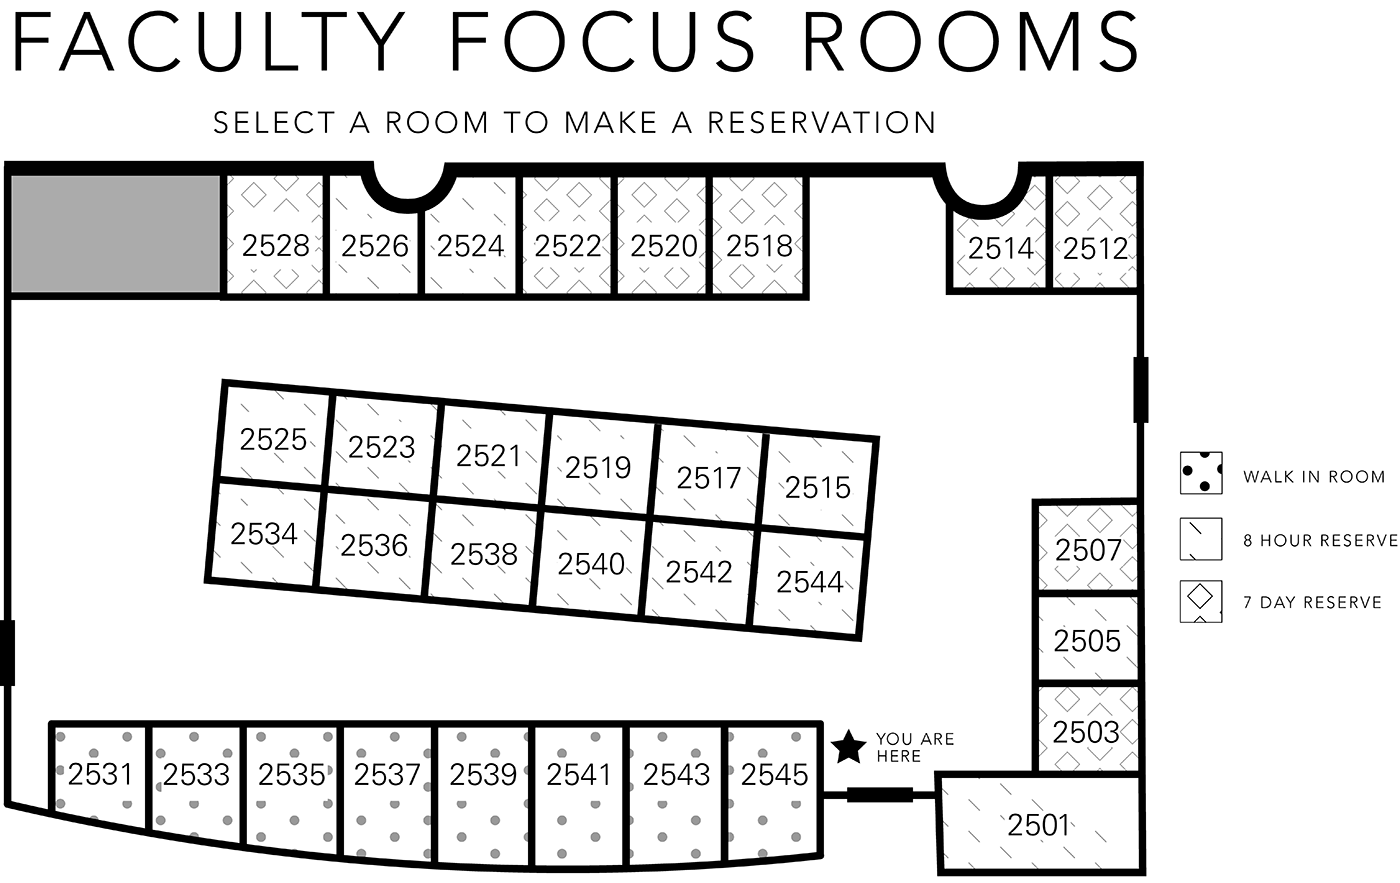
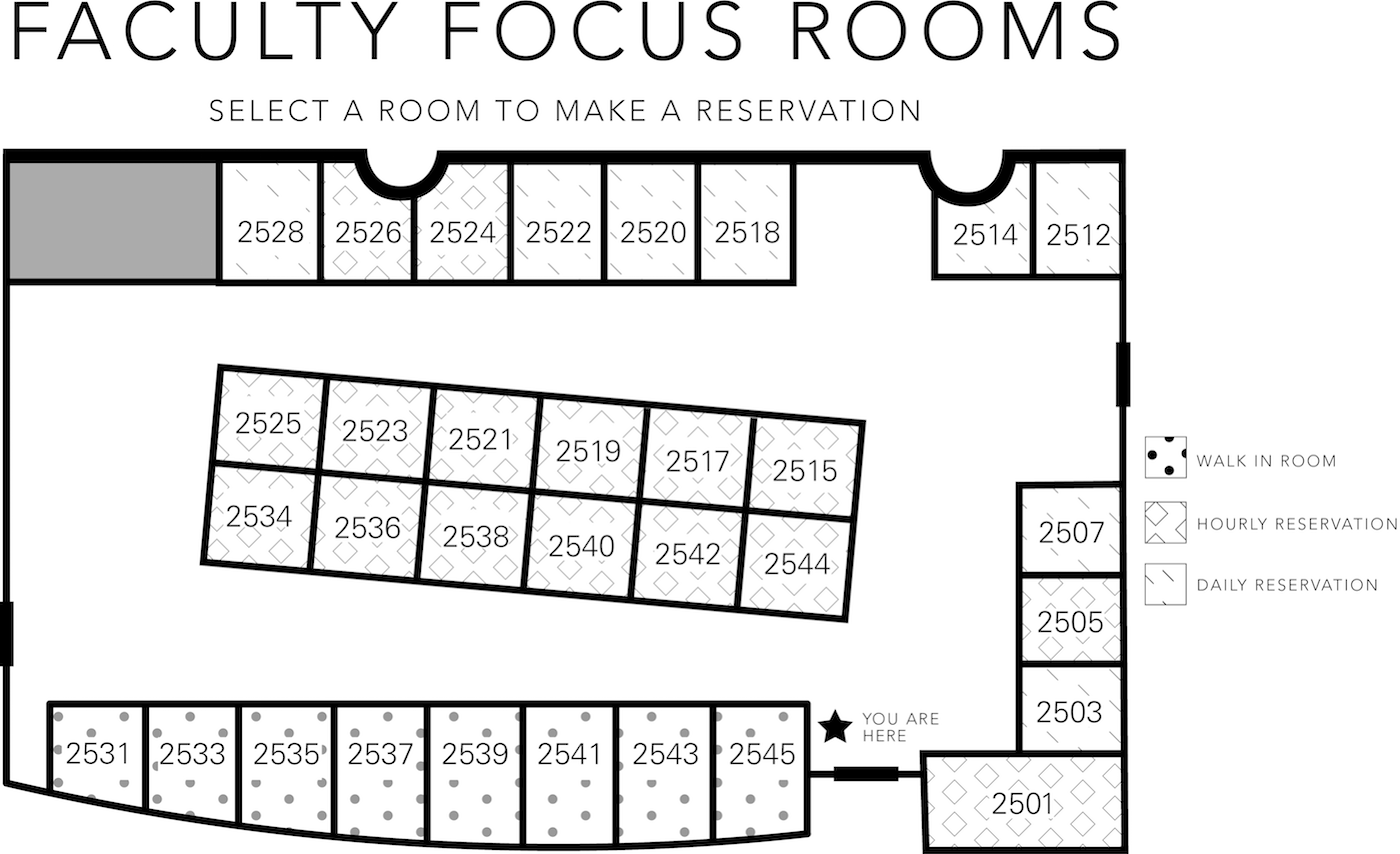
image changes

Changed region(s): [[0.0, 0.1218, 1.0, 1.0], [0.1229, 0.4262, 0.645, 0.7307], [0.0, 0.0, 0.8293, 0.0913]]

diff --git a/modules/studyroom_availability/theme/studyroom-availability-airport.tpl.php b/modules/studyroom_availability/theme/studyroom-availability-airport.tpl.php
@@ -20,10 +20,8 @@ $args = explode('/', drupal_get_path_alias());
     <?php
     if (in_array('facultyimagemap', $args)){ ?>
       <div class="just-the-maps">
-<!--      <div class="select-room-instruction">-->
-<!--          Select a room to make a reservation.-->
-<!--      </div>-->
-          <img src="/sites/all/modules/studyroom/modules/studyroom_availability/theme/img/facultyimagemap.png" alt="" width="1400" height="883" usemap="#Map"/>
+          <!-- Image -->
+          <img src="/sites/all/modules/studyroom/modules/studyroom_availability/theme/img/facultyimagemap.png" alt="" width="1400" height="883" usemap="#facultyimagemap"/>
           <!-- Modal -->
           <div class="modal fade" id="myModal" role="dialog">
               <div class="modal-dialog">
@@ -33,55 +31,98 @@ $args = explode('/', drupal_get_path_alias());
                           <h4 class="modal-title">Walk In Rooms</h4>
                       </div>
                       <div class="modal-body">
-                          <p>Walk In Rooms are first come, first serve. No reservations are needed.</p>
+                          <p>Does not require a reservation. Availability is based on first come, first served.</p>
                       </div>
                       <div class="modal-footer"><button class="btn btn-default" data-dismiss="modal" type="button">Close</button></div>
                   </div>
               </div>
           </div>
-          <map name="Map">
+          <!-- Image Map -->
+          <map name="facultyimagemap">
               <area shape="rect" coords="225,175,324,293" href="/space/44/day/facultyimagemap">
-              <area shape="poly" coords="330,177,359,177,365,187,373,201,386,211,402,213,418,211,418,293,329,295" href="space/43/day/facultyimagemap">
-              <area shape="poly" coords="516,177,517,294,425,296,424,210,435,203,445,197,452,186,455,177" href="space/42/day/facultyimagemap">
-              <area shape="rect" coords="523,177,613,294" href="space/41/day/facultyimagemap">
-              <area shape="rect" coords="618,178,706,295" href="space/40/day/facultyimagemap">
-              <area shape="rect" coords="714,177,804,294" href="space/39/day/facultyimagemap">
-              <area shape="poly" coords="1048,288,953,288,952,210,957,212,968,219,980,221,992,219,1011,213,1020,202,1026,193,1032,177,1045,176" href="space/38/day/facultyimagemap">
+              <area shape="poly" coords="330,177,359,177,365,187,373,201,386,211,402,213,418,211,418,293,329,295" href="/space/43/day/facultyimagemap">
+              <area shape="poly" coords="516,177,517,294,425,296,424,210,435,203,445,197,452,186,455,177" href="/space/42/day/facultyimagemap">
+              <area shape="rect" coords="523,177,613,294" href="/space/41/day/facultyimagemap">
+              <area shape="rect" coords="618,178,706,295" href="/space/40/day/facultyimagemap">
+              <area shape="rect" coords="714,177,804,294" href="/space/39/day/facultyimagemap">
+              <area shape="poly" coords="1048,288,953,288,952,210,957,212,968,219,980,221,992,219,1011,213,1020,202,1026,193,1032,177,1045,176" href="/space/38/day/facultyimagemap">
               <area shape="rect" coords="1051,176,1138,288" href="space/37/day/facultyimagemap">
-              <area shape="poly" coords="768,432,875,442,867,537,760,527" href="space/25/day/facultyimagemap">
-              <area shape="poly" coords="660,424,766,432,757,529,651,518" href="space/26/day/facultyimagemap">
-              <area shape="poly" coords="549,413,657,421,649,519,539,510" href="space/27/day/facultyimagemap">
-              <area shape="poly" coords="443,402,548,412,538,510,434,497" href="space/28/day/facultyimagemap">
-              <area shape="poly" coords="333,394,442,403,434,500,325,486" href="space/29/day/facultyimagemap">
-              <area shape="poly" coords="226,385,332,395,323,489,217,478" href="space/30/day/facultyimagemap">
-              <area shape="poly" coords="217,480,325,490,316,590,206,580" href="space/31/day/facultyimagemap">
-              <area shape="poly" coords="324,490,434,501,424,601,317,592" href="space/32/day/facultyimagemap">
-              <area shape="poly" coords="433,500,541,510,533,613,423,599" href="space/33/day/facultyimagemap">
-              <area shape="poly" coords="540,509,652,520,642,618,535,613" href="space/34/day/facultyimagemap">
-              <area shape="poly" coords="652,522,757,529,750,627,646,620" href="space/35/day/facultyimagemap">
-              <area shape="poly" coords="758,532,870,539,861,638,751,628" href="space/36/day/facultyimagemap">
-              <area shape="rect" coords="940,776,1141,868" href="space/21/day/facultyimagemap">
-              <area shape="rect" coords="1035,683,1142,771" href="space/22/day/facultyimagemap">
-              <area shape="rect" coords="1036,592,1142,678" href="space/23/day/facultyimagemap">
-              <area shape="rect" coords="1036,501,1143,589" href="space/24/day/facultyimagemap">
+              <area shape="poly" coords="768,432,875,442,867,537,760,527" href="/space/25/day/facultyimagemap">
+              <area shape="poly" coords="660,424,766,432,757,529,651,518" href="/space/26/day/facultyimagemap">
+              <area shape="poly" coords="549,413,657,421,649,519,539,510" href="/space/27/day/facultyimagemap">
+              <area shape="poly" coords="443,402,548,412,538,510,434,497" href="/space/28/day/facultyimagemap">
+              <area shape="poly" coords="333,394,442,403,434,500,325,486" href="/space/29/day/facultyimagemap">
+              <area shape="poly" coords="226,385,332,395,323,489,217,478" href="/space/30/day/facultyimagemap">
+              <area shape="poly" coords="217,480,325,490,316,590,206,580" href="/space/31/day/facultyimagemap">
+              <area shape="poly" coords="324,490,434,501,424,601,317,592" href="/space/32/day/facultyimagemap">
+              <area shape="poly" coords="433,500,541,510,533,613,423,599" href="/space/33/day/facultyimagemap">
+              <area shape="poly" coords="540,509,652,520,642,618,535,613" href="/space/34/day/facultyimagemap">
+              <area shape="poly" coords="652,522,757,529,750,627,646,620" href="/space/35/day/facultyimagemap">
+              <area shape="poly" coords="758,532,870,539,861,638,751,628" href="/space/36/day/facultyimagemap">
+              <area shape="rect" coords="940,776,1141,868" href="/space/21/day/facultyimagemap">
+              <area shape="rect" coords="1035,683,1142,771" href="/space/22/day/facultyimagemap">
+              <area shape="rect" coords="1036,592,1142,678" href="/space/23/day/facultyimagemap">
+              <area shape="rect" coords="1036,501,1143,589" href="/space/24/day/facultyimagemap">
               <area shape="poly" coords="50,725,151,724,149,832,115,828,69,817,51,814" href="#" data-target="#myModal" data-toggle="modal">
+              <area shape="poly" coords="150,724,241,727,246,847,212,846,182,837,151,837" href="#" data-target="#myModal" data-toggle="modal">
+              <area shape="poly" coords="245,723,341,725,340,857,308,857,285,854,260,854,245,848" href="#" data-target="#myModal" data-toggle="modal">
+              <area shape="poly" coords="341,726,437,724,434,868,393,867,365,862,340,860" href="#" data-target="#myModal" data-toggle="modal">
+              <area shape="poly" coords="436,726,533,723,532,869,479,871,444,869,433,866" href="#" data-target="#myModal" data-toggle="modal">
+              <area shape="poly" coords="531,724,627,725,624,870,594,870,560,872,539,872,533,872" href="#" data-target="#myModal" data-toggle="modal">
+              <area shape="poly" coords="626,723,725,724,722,864,686,869,660,869,648,870,627,871,627,871" href="#" data-target="#myModal" data-toggle="modal">
+              <area shape="poly" coords="726,725,822,723,823,858,785,862,760,862,746,863,735,866,726,866" href="#" data-target="#myModal" data-toggle="modal">
           </map>
+          <!-- Style sheet & Javascripts -->
+          <link rel="stylesheet" property="stylesheet" href="https://maxcdn.bootstrapcdn.com/bootstrap/3.3.7/css/bootstrap.min.css">
+          <script src="https://ajax.googleapis.com/ajax/libs/jquery/1.11.3/jquery.min.js"></script>
+          <script src="http://maxcdn.bootstrapcdn.com/bootstrap/3.3.5/js/bootstrap.min.js"></script>
       </div>
      <?php }
      else if (in_array('graduateimagemap', $args)){?>
        <div class="just-the-maps">
-       <div class="select-room-instruction">
-       Select a room to make a reservation.
-      </div>
-        <img src="/sites/all/modules/studyroom/modules/studyroom_availability/theme/img/LL2_graduate_airport.gif"
-             usemap="#facultymap2"/>
-        <map name="facultymap2">
-            <area shape="poly" coords="59,389,119,389,122,458,61,445" href="https://libraries.webtest.lib.ou.edu/space/1" target="_blank" alt="LL2531">
-            <area shape="poly" coords="126,388,186,390,185,468,125,460" href="https://libraries.webtest.lib.ou.edu/space/2" target="new" alt="LL2533">
-            <area shape="poly" coords="192,388,253,389,252,476,189,469" href="https://libraries.webtest.lib.ou.edu/space/3" target="new" alt="LL2535">
-            <area shape="poly" coords="259,389,319,388,319,481,260,476,259,478" href="https://libraries.webtest.lib.ou.edu/space/4" target="new" alt="LL2537">
-            <area shape="poly" coords="321,387,384,389,384,482,322,481" href="https://libraries.webtest.lib.ou.edu/space/5" target="new" alt="LL2539">
-        </map>
+           <!-- Image -->
+           <img src="/sites/all/modules/studyroom/modules/studyroom_availability/theme/img/graduateimagemap.png" alt="" width="1400" height="837" usemap="#graduateimagemap"/>
+           <!-- Modal -->
+           <div class="modal fade" id="myModal" role="dialog">
+               <div class="modal-dialog">
+                   <!-- Modal content-->
+                   <div class="modal-content">
+                       <div class="modal-header"><button class="close" data-dismiss="modal" type="button">×</button>
+                           <h4 class="modal-title">Walk In Rooms</h4>
+                       </div>
+                       <div class="modal-body">
+                           <p>Does not require a reservation. Availability is based on first come, first served.</p>
+                       </div>
+                       <div class="modal-footer"><button class="btn btn-default" data-dismiss="modal" type="button">Close</button></div>
+                   </div>
+               </div>
+           </div>
+           <!-- Image Map -->
+           <map name="graduateimagemap">
+               <area shape="rect" coords="4,702,147,823" href="/space/55/day/graduateimagemap">
+               <area shape="rect" coords="146,703,241,823" href="/space/54/day/graduateimagemap">
+               <area shape="rect" coords="243,703,344,825" href="/space/52/day/graduateimagemap">
+               <area shape="rect" coords="502,704,613,827" href="/space/49/day/graduateimagemap">
+               <area shape="rect" coords="614,701,716,824" href="/space/47/day/graduateimagemap">
+               <area shape="rect" coords="719,702,819,827" href="/space/46/day/graduateimagemap">
+               <area shape="poly" coords="820,699,1001,699,1002,786,992,790,982,794,975,799,973,802,967,812,960,822,819,825" href="/space/45/day/graduateimagemap">
+               <area shape="poly" coords="115,519,229,511,241,617,120,624" href="/space/53/day/graduateimagemap">
+               <area shape="poly" coords="230,512,342,502,351,606,239,617" href="/space/51/day/graduateimagemap">
+               <area shape="poly" coords="345,503,455,493,463,595,351,604" href="/space/50/day/graduateimagemap">
+               <area shape="poly" coords="457,490,569,482,577,586,464,594" href="/space/48/day/graduateimagemap">
+               <area shape="poly" coords="221,411,335,400,341,504,230,512" href="/space/56/day/graduateimagemap">
+               <area shape="poly" coords="334,400,446,390,456,494,341,500" href="/space/57/day/graduateimagemap">
+               <area shape="poly" coords="446,388,560,380,567,484,453,491" href="/space/58/day/graduateimagemap">
+               <area shape="poly" coords="113,188,113,275,5,277,3,205,114,188,141,181,193,173,213,170,214,275,110,275" href="#" data-target="#myModal" data-toggle="modal">
+               <area shape="poly" coords="215,170,257,166,300,161,317,158,312,276,213,277" href="#" data-target="#myModal" data-toggle="modal">
+               <area shape="poly" coords="317,159,361,155,414,150,417,279,315,276" href="#" data-target="#myModal" data-toggle="modal">
+               <area shape="poly" coords="417,152,450,148,497,148,514,148,511,278,463,278,415,278" href="#" data-target="#myModal" data-toggle="modal">
+               <area shape="poly" coords="511,149,612,147,611,275,512,277" href="#" data-target="#myModal" data-toggle="modal">
+           </map>
+           <!-- Style sheet & Javascripts -->
+           <link rel="stylesheet" property="stylesheet" href="https://maxcdn.bootstrapcdn.com/bootstrap/3.3.7/css/bootstrap.min.css">
+           <script src="https://ajax.googleapis.com/ajax/libs/jquery/1.11.3/jquery.min.js"></script>
+           <script src="http://maxcdn.bootstrapcdn.com/bootstrap/3.3.5/js/bootstrap.min.js"></script>
        </div>
      <?php }
     else { ?>
